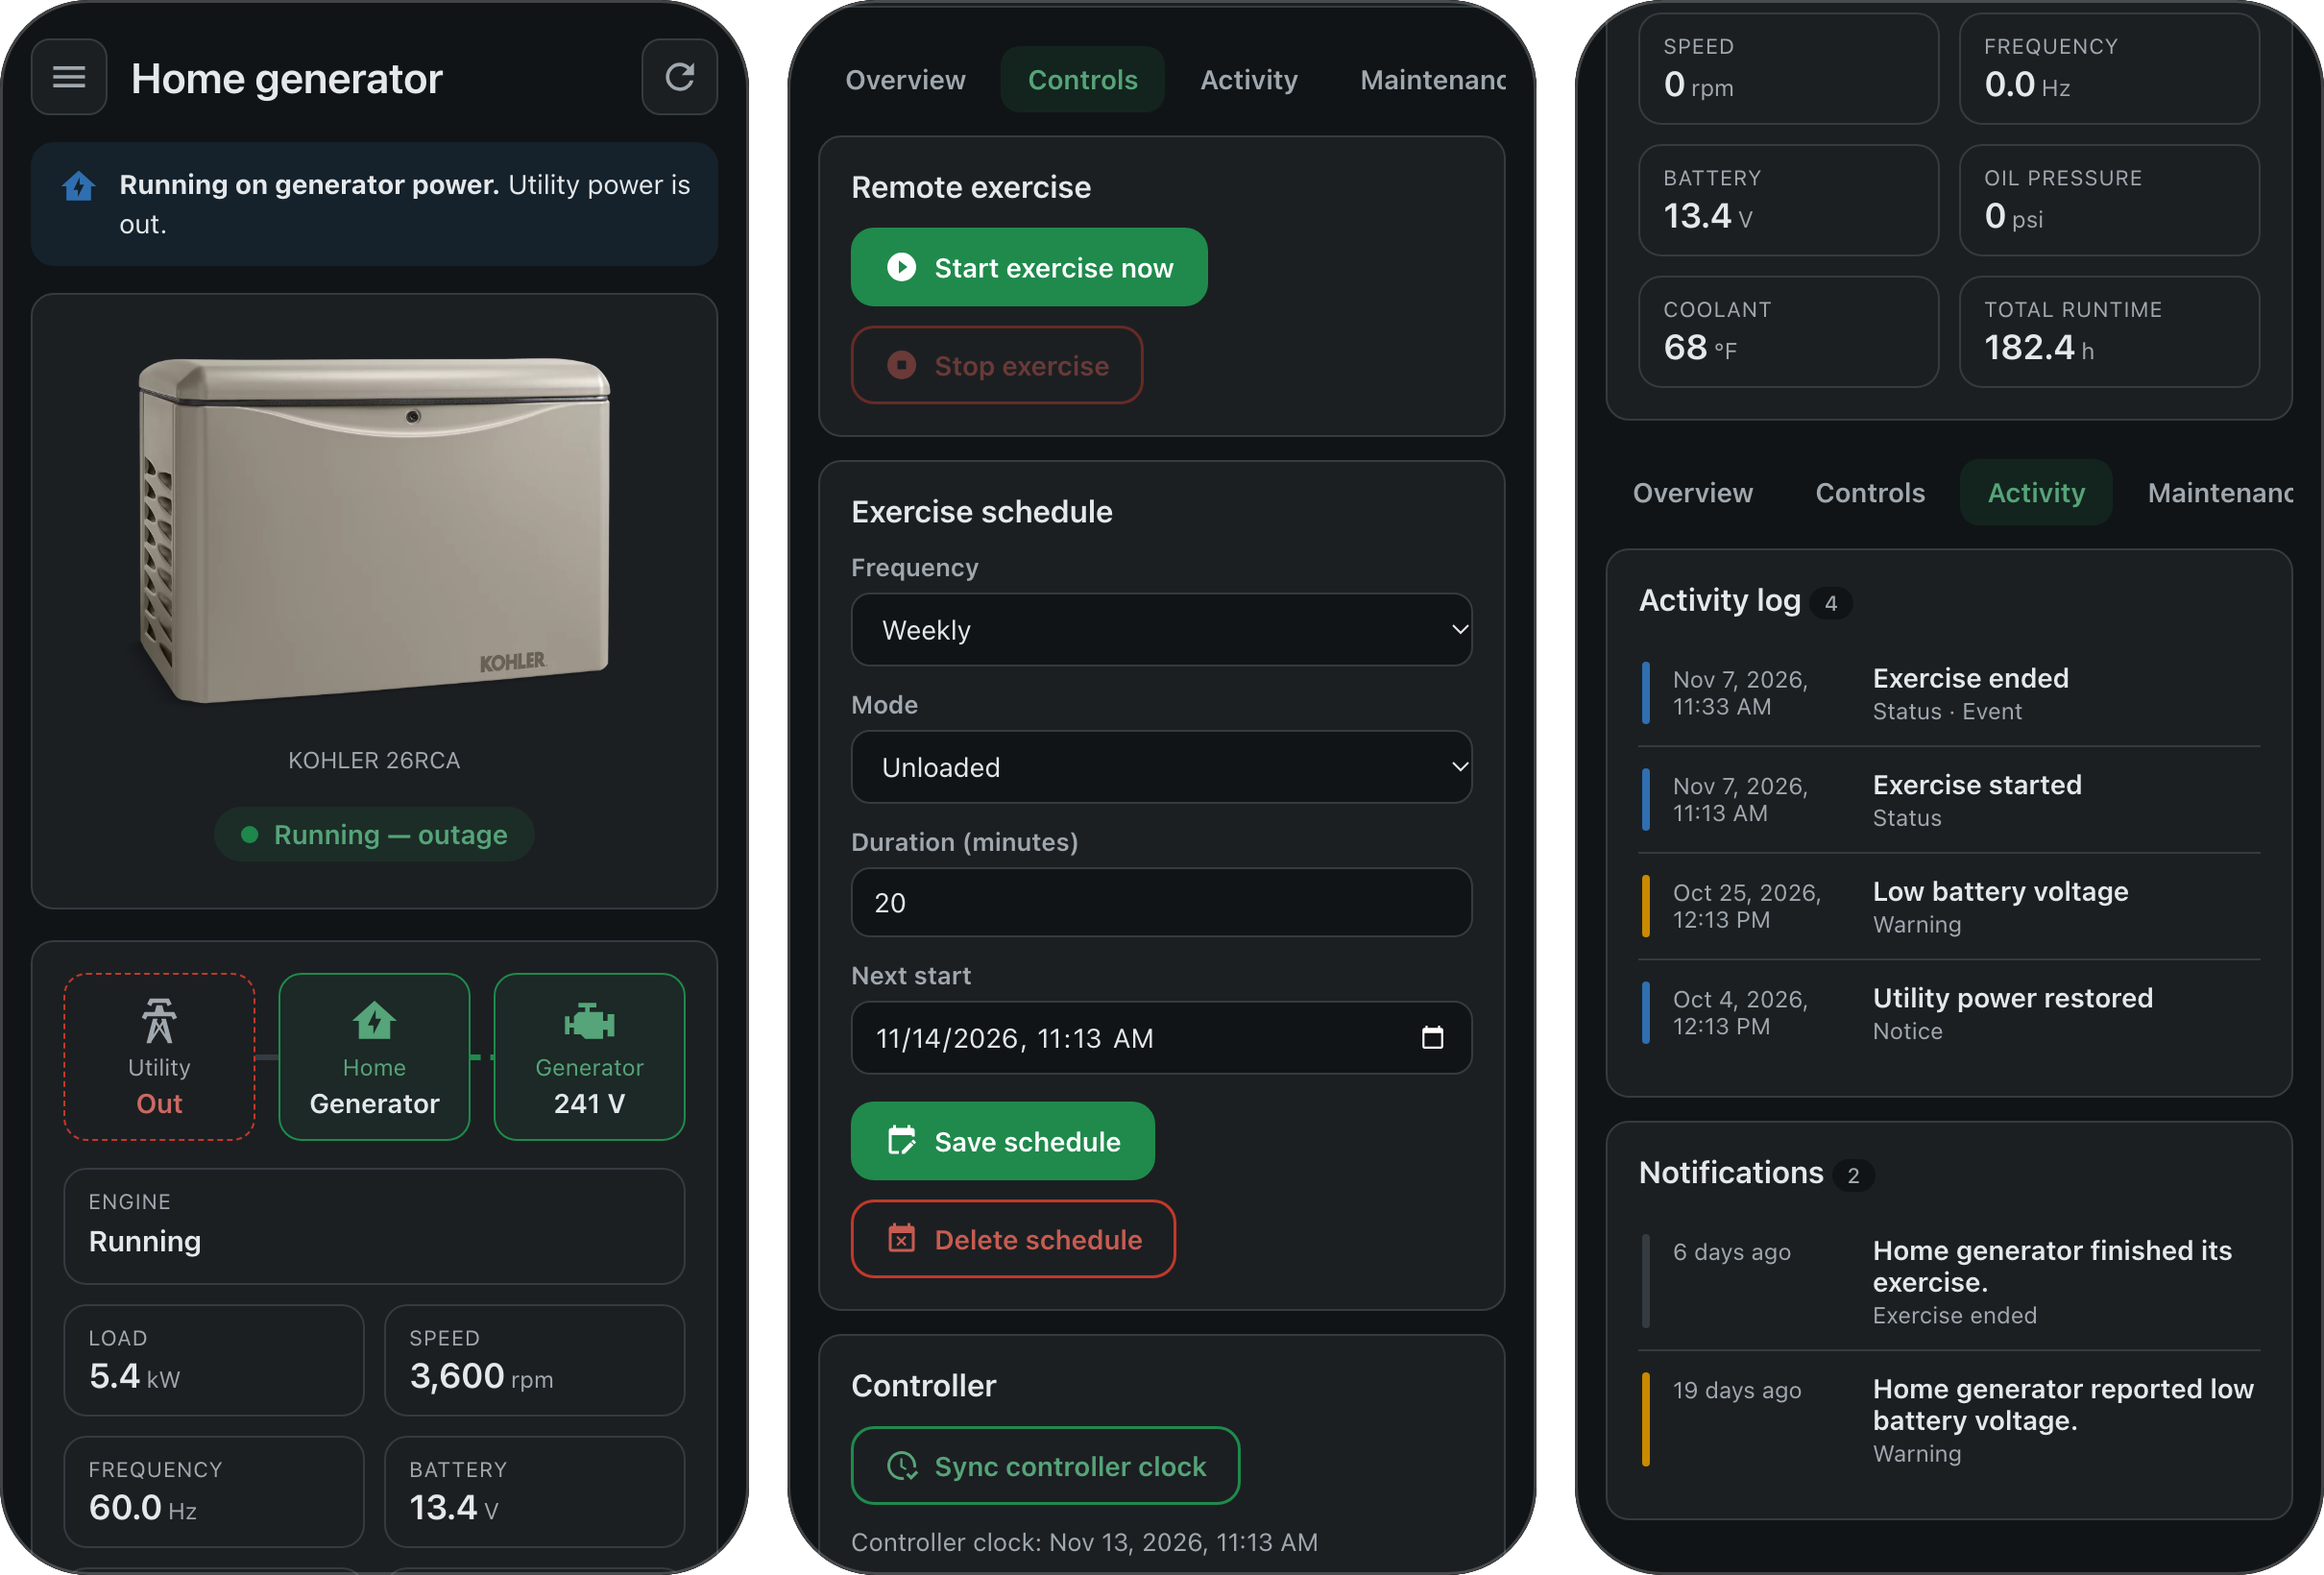
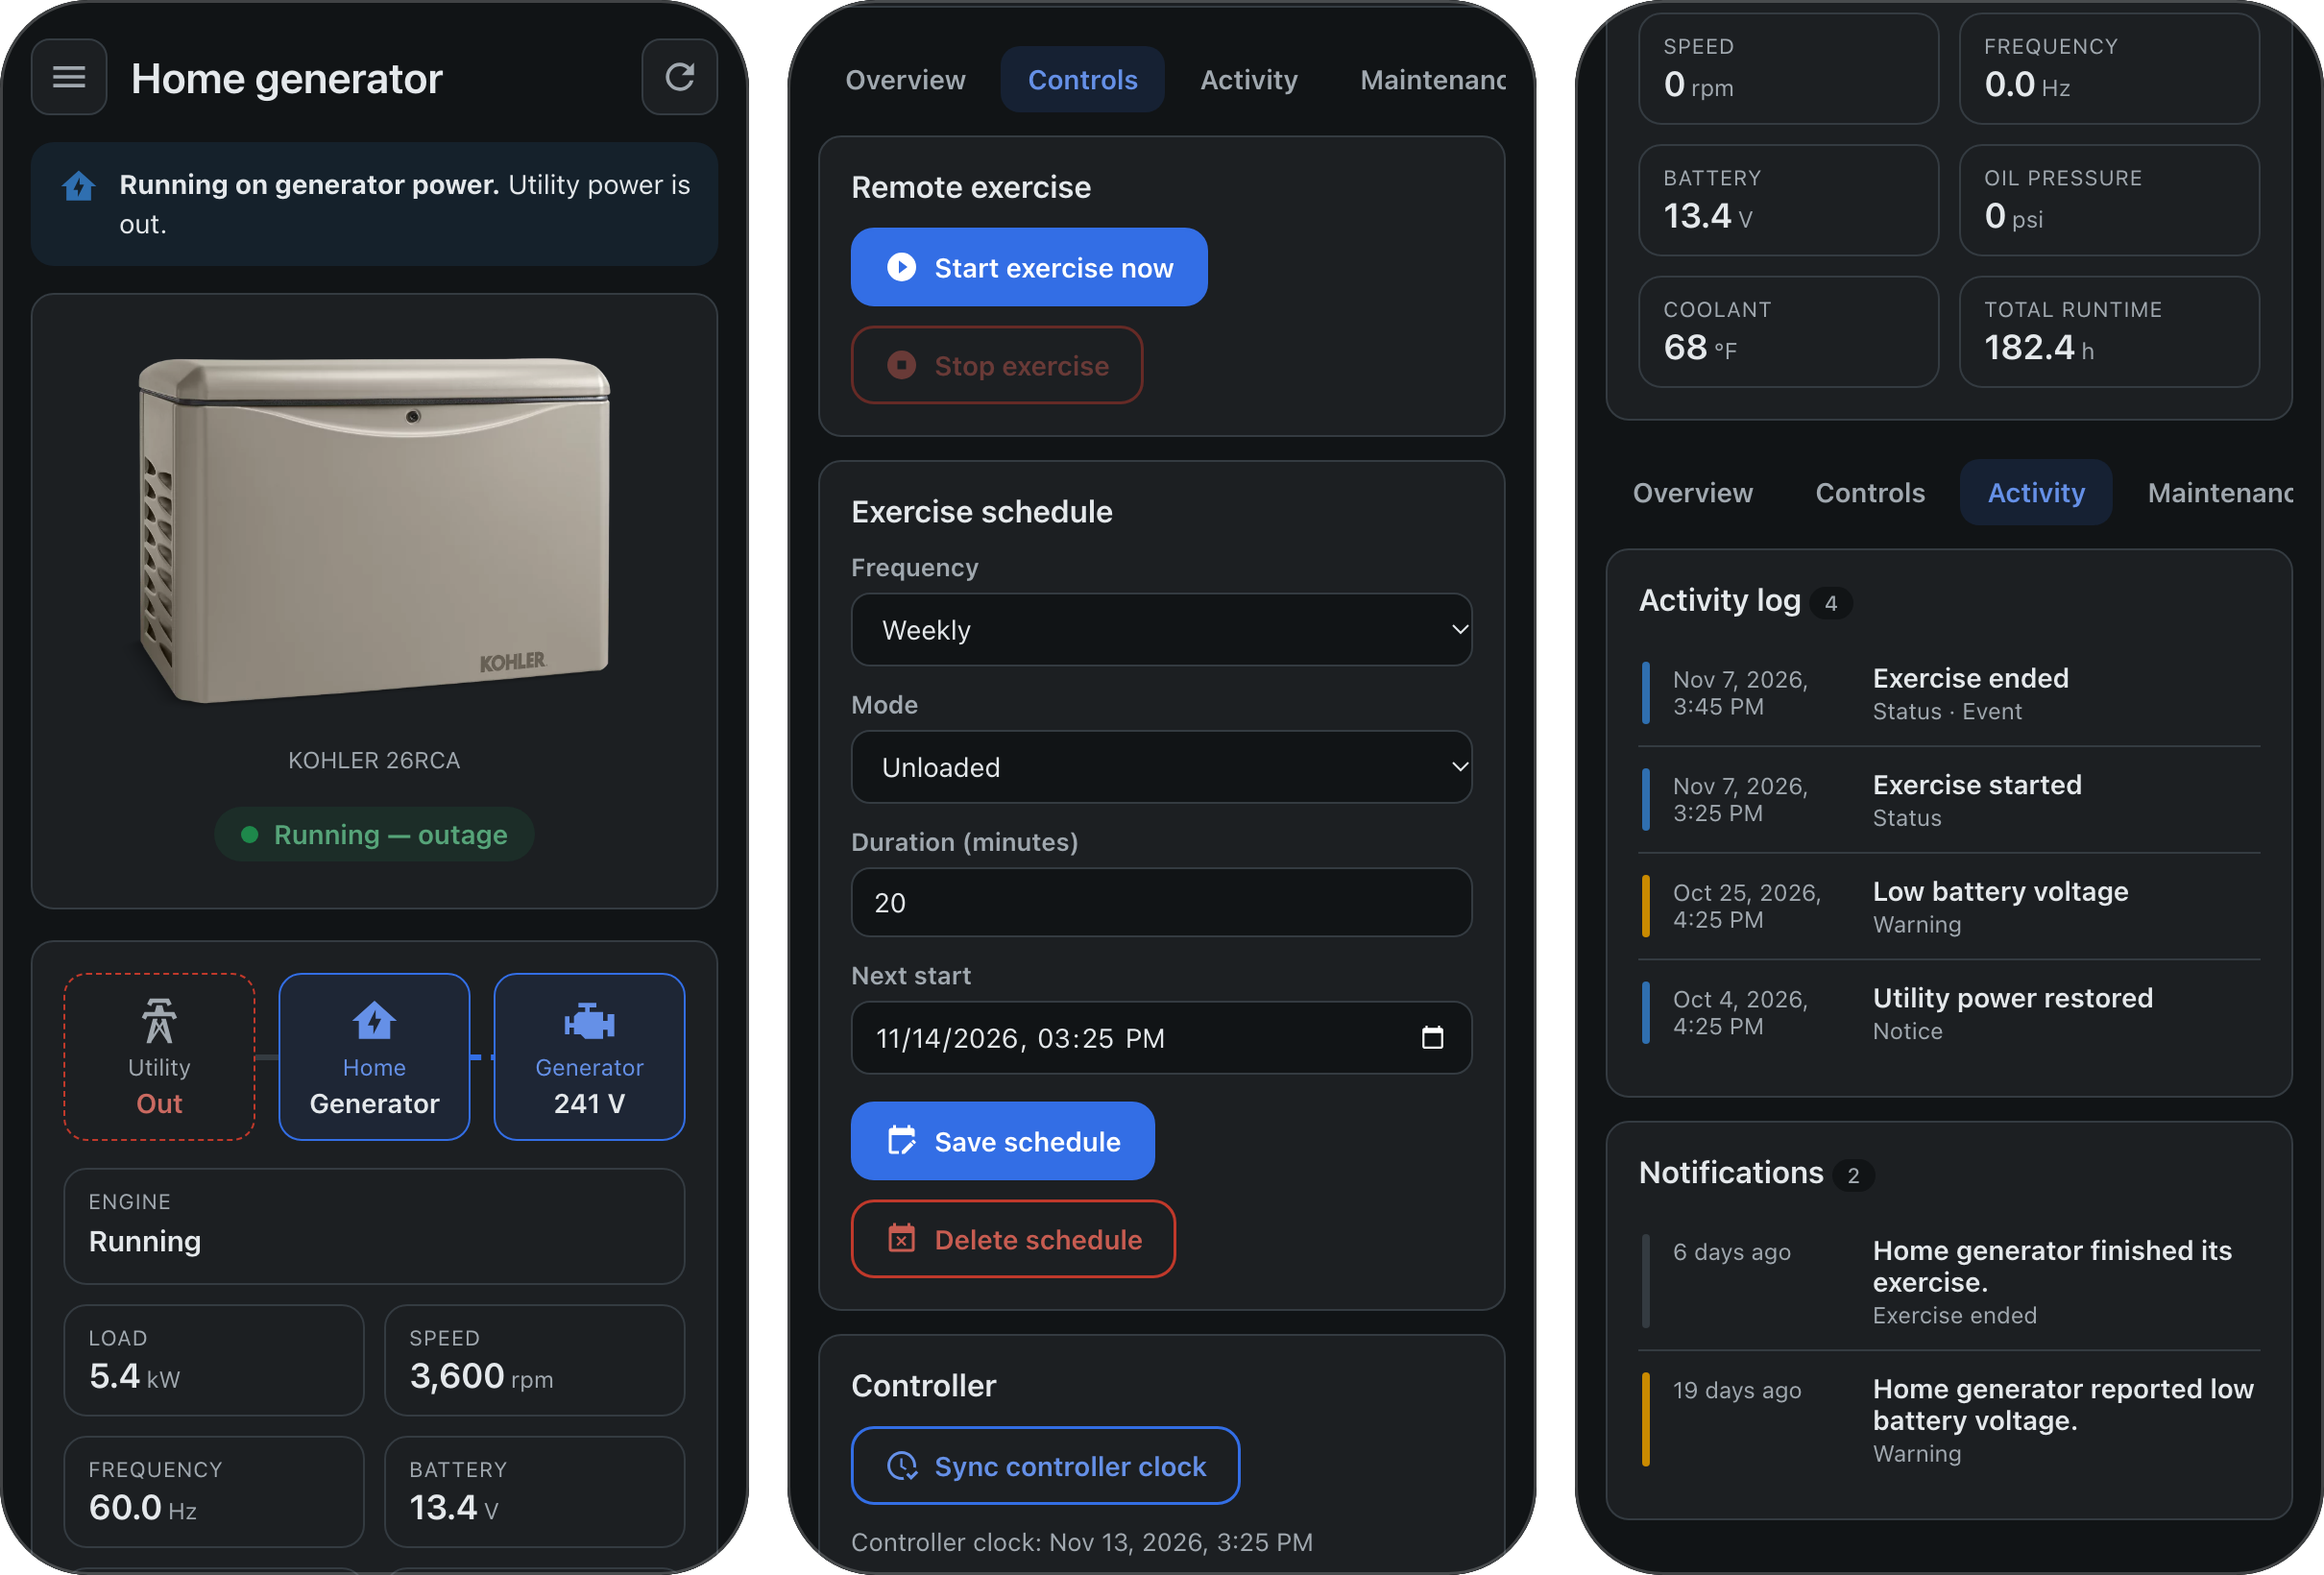
Update contrast color

diff --git a/frontend/src/styles.ts b/frontend/src/styles.ts
@@ -10,7 +10,9 @@ export const panelStyles = css`
     --rk-fg: var(--primary-text-color, #1a1a1a);
     --rk-muted: var(--secondary-text-color, #5f666d);
     --rk-divider: var(--divider-color, #e0e0e0);
-    --rk-accent: var(--rehlko-accent-color, #1f8a4c);
+    /* Rehlko's blue, the one its buttons use on kohlerhomeenergy.rehlko.com. A theme can
+       set --rehlko-accent-color to change it. */
+    --rk-accent: var(--rehlko-accent-color, #336ee5);
     --rk-ok: var(--success-color, #1f8a4c);
     --rk-warn: var(--warning-color, #c98a00);
     --rk-bad: var(--error-color, #c0392b);
@@ -150,7 +152,8 @@ export const panelStyles = css`
   }
   .status-chip.live .status-dot { animation: pulse 1.6s ease-in-out infinite; }
 
-  /* Utility ── Home ── Generator: the wire from whichever source feeds the home is lit. */
+  /* Utility ── Home ── Generator: the wire from whichever source feeds the home is lit, in
+     the one accent colour. The labels say which source it is. */
   .flow {
     display: grid;
     grid-template-columns: minmax(0, 1fr) minmax(14px, 44px) minmax(0, 1fr) minmax(14px, 44px) minmax(0, 1fr);
@@ -173,8 +176,7 @@ export const panelStyles = css`
   .node .label, .node .value { max-width: 100%; overflow-wrap: break-word; hyphens: auto; }
   .node .label { font-size: 12px; }
   .node .value { font-size: 15px; font-weight: 600; line-height: 1.25; color: var(--rk-fg); }
-  .node.utility, .wire.utility { --src: var(--rk-util); }
-  .node.generator, .wire.generator { --src: var(--rk-accent); }
+  .node.utility, .wire.utility, .node.generator, .wire.generator { --src: var(--rk-accent); }
   .node.active {
     border-color: var(--src);
     background: color-mix(in srgb, var(--src) 10%, transparent);

diff --git a/custom_components/rehlko_energy/www/rehlko-energy-panel.js b/custom_components/rehlko_energy/www/rehlko-energy-panel.js
@@ -630,7 +630,9 @@ var L = {
     --rk-fg: var(--primary-text-color, #1a1a1a);
     --rk-muted: var(--secondary-text-color, #5f666d);
     --rk-divider: var(--divider-color, #e0e0e0);
-    --rk-accent: var(--rehlko-accent-color, #1f8a4c);
+    /* Rehlko's blue, the one its buttons use on kohlerhomeenergy.rehlko.com. A theme can
+       set --rehlko-accent-color to change it. */
+    --rk-accent: var(--rehlko-accent-color, #336ee5);
     --rk-ok: var(--success-color, #1f8a4c);
     --rk-warn: var(--warning-color, #c98a00);
     --rk-bad: var(--error-color, #c0392b);
@@ -770,7 +772,8 @@ var L = {
   }
   .status-chip.live .status-dot { animation: pulse 1.6s ease-in-out infinite; }
 
-  /* Utility ── Home ── Generator: the wire from whichever source feeds the home is lit. */
+  /* Utility ── Home ── Generator: the wire from whichever source feeds the home is lit, in
+     the one accent colour. The labels say which source it is. */
   .flow {
     display: grid;
     grid-template-columns: minmax(0, 1fr) minmax(14px, 44px) minmax(0, 1fr) minmax(14px, 44px) minmax(0, 1fr);
@@ -793,8 +796,7 @@ var L = {
   .node .label, .node .value { max-width: 100%; overflow-wrap: break-word; hyphens: auto; }
   .node .label { font-size: 12px; }
   .node .value { font-size: 15px; font-weight: 600; line-height: 1.25; color: var(--rk-fg); }
-  .node.utility, .wire.utility { --src: var(--rk-util); }
-  .node.generator, .wire.generator { --src: var(--rk-accent); }
+  .node.utility, .wire.utility, .node.generator, .wire.generator { --src: var(--rk-accent); }
   .node.active {
     border-color: var(--src);
     background: color-mix(in srgb, var(--src) 10%, transparent);

diff --git a/frontend/dev/index.html b/frontend/dev/index.html
@@ -7,7 +7,7 @@
     <style>
       html, body { margin: 0; height: 100%; font-family: system-ui, sans-serif; }
       body { display: flex; flex-direction: column; }
-      .demo { background: #192c20; color: white; padding: 10px 16px; font-size: 13px; display: flex; flex-wrap: wrap; align-items: center; gap: 8px 14px; }
+      .demo { background: #121f33; color: white; padding: 10px 16px; font-size: 13px; display: flex; flex-wrap: wrap; align-items: center; gap: 8px 14px; }
       .demo select { margin-left: 6px; }
       .demo.hidden { display: none; }
       rehlko-energy-panel { flex: 1; min-height: 0; }

diff --git a/CHANGELOG.md b/CHANGELOG.md
@@ -5,6 +5,13 @@ All notable changes to this project are documented here. The format follows
 
 ## Unreleased
 
+### Changed
+
+- The panel's accent colour is Rehlko's blue (`#336EE5`, the one its website's buttons use)
+  instead of green: tabs, buttons, checkboxes and the lit path of the power flow, which is
+  that one colour whichever source feeds the home. Status colours are unchanged and still come
+  from the Home Assistant theme. A theme can set `--rehlko-accent-color` to use another.
+
 ## [1.01] - 2026-11-13
 
 ### Fixed
